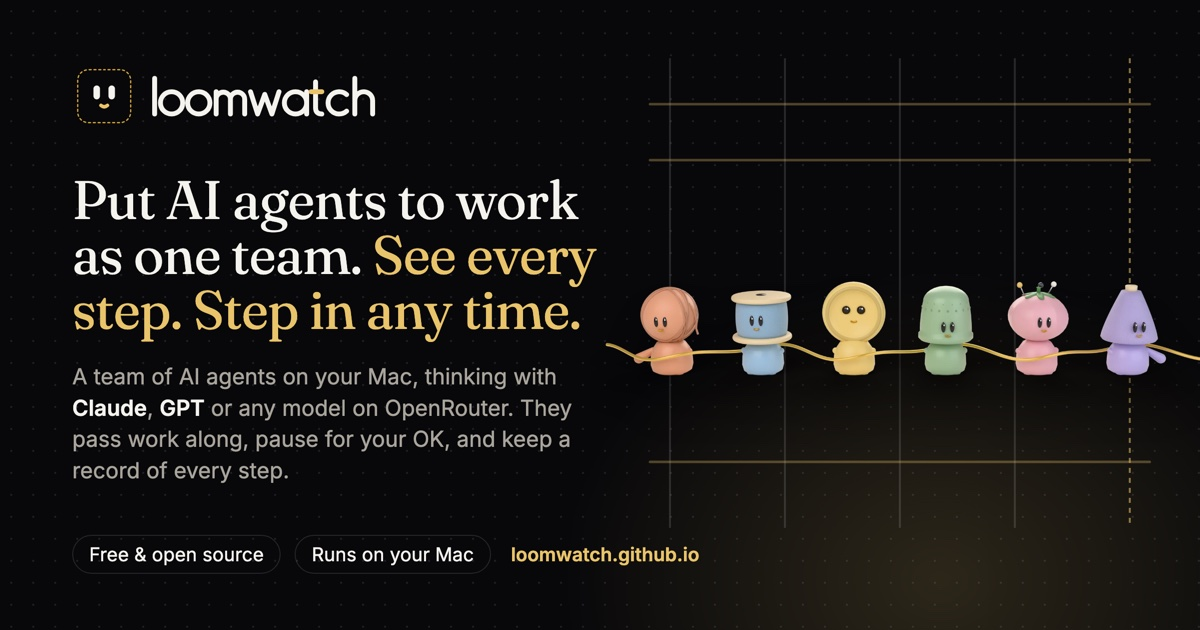
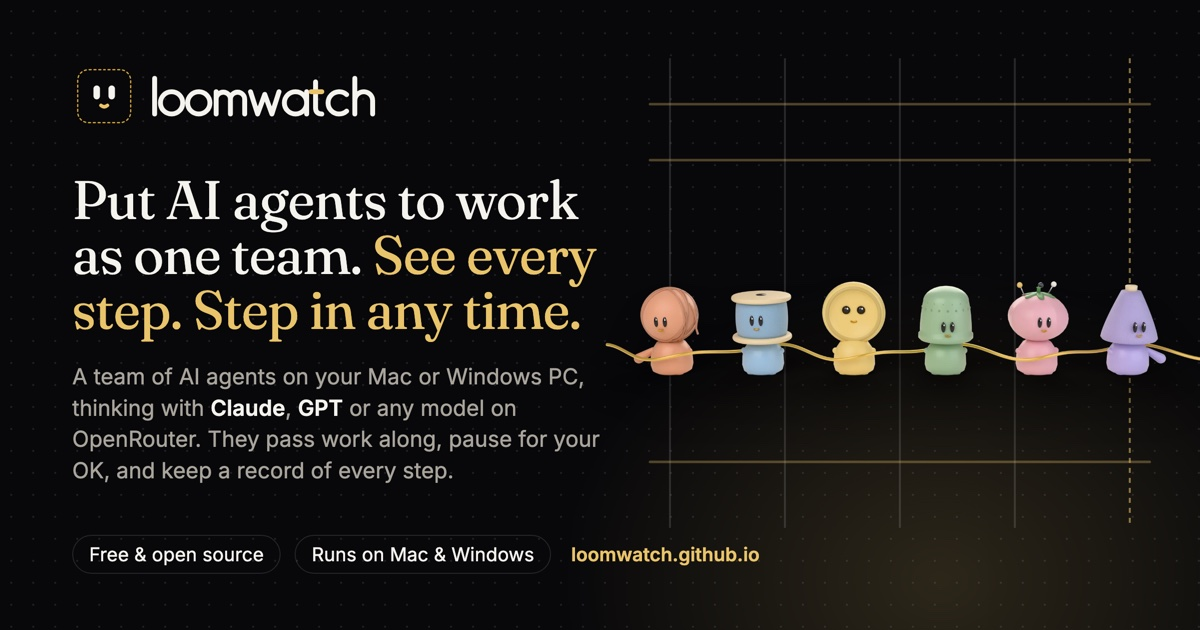
feat(site): the page offers the Windows download too, and shows your computer's first (#109)
* fix(site): search results and link previews say it runs on Windows too

The page description, Open Graph and Twitter descriptions still called
LoomWatch a Mac app. Since 0.6.0 it also runs on Windows, so they now say
"Mac and Windows" / "your Mac or Windows PC", matching the GitHub About.

* feat(site): the page offers the Windows download too, and shows your computer's first

- Hero: "runs on Mac and Windows", and "a team of AI agents on your Mac or Windows PC".
- Start: a Mac / Windows switch on the download card. Each has its own download, the note on
  what to click when the system blocks the first open (Gatekeeper, SmartScreen), and its
  one-line install (Terminal, PowerShell) with a Copy button. main.js picks the visitor's
  computer from the browser (Windows when it says so, the Mac otherwise); without JavaScript
  both show, the Mac first. Windows logo added beside the Apple and Linux ones.
- Link preview card: "on your Mac or Windows PC" and a "Runs on Mac & Windows" pill,
  re-rendered as its header says (166 KB), and ?v=9 on og:image and twitter:image.

---------

Changed region(s): [[0.0617, 0.573, 0.4933, 0.7841], [0.3083, 0.8444, 0.6475, 0.9048]]

diff --git a/site/index.html b/site/index.html
@@ -4,21 +4,21 @@
   <meta charset="utf-8">
   <meta name="viewport" content="width=device-width, initial-scale=1">
   <title>LoomWatch — Put AI agents to work as one team</title>
-  <meta name="description" content="A free, open-source Mac app that puts AI agents to work as one team, thinking with Claude, GPT, Gemini or any model on OpenRouter. See every step, and step in any time. No code needed.">
+  <meta name="description" content="A free, open-source app for Mac and Windows that puts AI agents to work as one team, thinking with Claude, GPT, Gemini or any model on OpenRouter. See every step, and step in any time. No code needed.">
   <meta name="theme-color" content="#08080A">
   <meta property="og:site_name" content="LoomWatch">
   <meta property="og:title" content="LoomWatch — Put AI agents to work as one team">
-  <meta property="og:description" content="Put AI agents to work as one team on your Mac, thinking with Claude, GPT, Gemini or any model on OpenRouter. See every step, and step in any time. Free and open source.">
+  <meta property="og:description" content="Put AI agents to work as one team on your Mac or Windows PC, thinking with Claude, GPT, Gemini or any model on OpenRouter. See every step, and step in any time. Free and open source.">
   <meta property="og:type" content="website">
   <meta property="og:url" content="https://loomwatch.github.io/">
-  <meta property="og:image" content="https://loomwatch.github.io/social-card.jpg?v=8">
+  <meta property="og:image" content="https://loomwatch.github.io/social-card.jpg?v=9">
   <meta property="og:image:width" content="1200">
   <meta property="og:image:height" content="630">
   <meta property="og:image:alt" content="LoomWatch: put AI agents to work as one team. Six friendly figures, a yarn ball, a spool, a button, a thimble, a pincushion and a thread cone, joined by one gold thread.">
   <meta name="twitter:card" content="summary_large_image">
   <meta name="twitter:title" content="LoomWatch — Put AI agents to work as one team">
-  <meta name="twitter:description" content="Put AI agents to work as one team on your Mac, thinking with Claude, GPT, Gemini or any model on OpenRouter. See every step, and step in any time. Free and open source.">
-  <meta name="twitter:image" content="https://loomwatch.github.io/social-card.jpg?v=8">
+  <meta name="twitter:description" content="Put AI agents to work as one team on your Mac or Windows PC, thinking with Claude, GPT, Gemini or any model on OpenRouter. See every step, and step in any time. Free and open source.">
+  <meta name="twitter:image" content="https://loomwatch.github.io/social-card.jpg?v=9">
   <meta name="twitter:image:alt" content="LoomWatch: put AI agents to work as one team. Six friendly figures, a yarn ball, a spool, a button, a thimble, a pincushion and a thread cone, joined by one gold thread.">
   <link rel="canonical" href="https://loomwatch.github.io/">
   <!-- Search results may show the link-preview picture full size. -->
@@ -126,9 +126,9 @@
 <!-- ================= Hero: the crew, alive ================= -->
 <section class="hero" id="top" aria-labelledby="hero-h">
   <div class="hero-copy">
-    <span class="micro">Free and open source · runs on your Mac · no code needed</span>
+    <span class="micro">Free and open source · runs on Mac and Windows · no code needed</span>
     <h1 id="hero-h">Put AI agents to work as one team. <em>See&nbsp;every&nbsp;step. Step&nbsp;in&nbsp;any&nbsp;time.</em></h1>
-    <p class="hero-sub">A team of AI agents on your Mac, each thinking with the model you pick: Claude, GPT, Gemini or a free one, all through one OpenRouter key. They pass work to each other, pause for your OK wherever you choose, and keep a record of every step.</p>
+    <p class="hero-sub">A team of AI agents on your Mac or Windows PC, each thinking with the model you pick: Claude, GPT, Gemini or a free one, all through one OpenRouter key. They pass work to each other, pause for your OK wherever you choose, and keep a record of every step.</p>
     <div class="cta">
       <a class="btn btn-primary btn-lg" href="#act-agents">Build an agent, right here</a>
       <a class="link" href="#start">Or install it ↓</a>
@@ -408,6 +408,7 @@
     <svg width="0" height="0" style="position:absolute" aria-hidden="true">
       <symbol id="os-apple" viewBox="0 0 24 24"><path d="M12.152 6.896c-.948 0-2.415-1.078-3.96-1.04-2.04.027-3.91 1.183-4.961 3.014-2.117 3.675-.546 9.103 1.519 12.09 1.013 1.454 2.208 3.09 3.792 3.039 1.52-.065 2.09-.987 3.935-.987 1.831 0 2.35.987 3.96.948 1.637-.026 2.676-1.48 3.676-2.948 1.156-1.688 1.636-3.325 1.662-3.415-.039-.013-3.182-1.221-3.22-4.857-.026-3.04 2.48-4.494 2.597-4.559-1.429-2.09-3.623-2.324-4.39-2.376-2-.156-3.675 1.09-4.61 1.09zM15.53 3.83c.843-1.012 1.4-2.427 1.245-3.83-1.207.052-2.662.805-3.532 1.818-.78.896-1.454 2.338-1.273 3.714 1.338.104 2.715-.688 3.559-1.701"/></symbol>
       <symbol id="os-linux" viewBox="0 0 24 24"><path d="M12.504 0c-.155 0-.315.008-.48.021-4.226.333-3.105 4.807-3.17 6.298-.076 1.092-.3 1.953-1.05 3.02-.885 1.051-2.127 2.75-2.716 4.521-.278.832-.41 1.684-.287 2.489a.424.424 0 00-.11.135c-.26.268-.45.6-.663.839-.199.199-.485.267-.797.4-.313.136-.658.269-.864.68-.09.189-.136.394-.132.602 0 .199.027.4.055.536.058.399.116.728.04.97-.249.68-.28 1.145-.106 1.484.174.334.535.47.94.601.81.2 1.91.135 2.774.6.926.466 1.866.67 2.616.47.526-.116.97-.464 1.208-.946.587-.003 1.23-.269 2.26-.334.699-.058 1.574.267 2.577.2.025.134.063.198.114.333l.003.003c.391.778 1.113 1.132 1.884 1.071.771-.06 1.592-.536 2.257-1.306.631-.765 1.683-1.084 2.378-1.503.348-.199.629-.469.649-.853.023-.4-.2-.811-.714-1.376v-.097l-.003-.003c-.17-.2-.25-.535-.338-.926-.085-.401-.182-.786-.492-1.046h-.003c-.059-.054-.123-.067-.188-.135a.357.357 0 00-.19-.064c.431-1.278.264-2.55-.173-3.694-.533-1.41-1.465-2.638-2.175-3.483-.796-1.005-1.576-1.957-1.56-3.368.026-2.152.236-6.133-3.544-6.139zm.529 3.405h.013c.213 0 .396.062.584.198.19.135.33.332.438.533.105.259.158.459.166.724 0-.02.006-.04.006-.06v.105a.086.086 0 01-.004-.021l-.004-.024a1.807 1.807 0 01-.15.706.953.953 0 01-.213.335.71.71 0 00-.088-.042c-.104-.045-.198-.064-.284-.133a1.312 1.312 0 00-.22-.066c.05-.06.146-.133.183-.198.053-.128.082-.264.088-.402v-.02a1.21 1.21 0 00-.061-.4c-.045-.134-.101-.2-.183-.333-.084-.066-.167-.132-.267-.132h-.016c-.093 0-.176.03-.262.132a.8.8 0 00-.205.334 1.18 1.18 0 00-.09.4v.019c.002.089.008.179.02.267-.193-.067-.438-.135-.607-.202a1.635 1.635 0 01-.018-.2v-.02a1.772 1.772 0 01.15-.768c.082-.22.232-.406.43-.533a.985.985 0 01.594-.2zm-2.962.059h.036c.142 0 .27.048.399.135.146.129.264.288.344.465.09.199.14.4.153.667v.004c.007.134.006.2-.002.266v.08c-.03.007-.056.018-.083.024-.152.055-.274.135-.393.2.012-.09.013-.18.003-.267v-.015c-.012-.133-.04-.2-.082-.333a.613.613 0 00-.166-.267.248.248 0 00-.183-.064h-.021c-.071.006-.13.04-.186.132a.552.552 0 00-.12.27.944.944 0 00-.023.33v.015c.012.135.037.2.08.334.046.134.098.2.166.268.01.009.02.018.034.024-.07.057-.117.07-.176.136a.304.304 0 01-.131.068 2.62 2.62 0 01-.275-.402 1.772 1.772 0 01-.155-.667 1.759 1.759 0 01.08-.668 1.43 1.43 0 01.283-.535c.128-.133.26-.2.418-.2zm1.37 1.706c.332 0 .733.065 1.216.399.293.2.523.269 1.052.468h.003c.255.136.405.266.478.399v-.131a.571.571 0 01.016.47c-.123.31-.516.643-1.063.842v.002c-.268.135-.501.333-.775.465-.276.135-.588.292-1.012.267a1.139 1.139 0 01-.448-.067 3.566 3.566 0 01-.322-.198c-.195-.135-.363-.332-.612-.465v-.005h-.005c-.4-.246-.616-.512-.686-.71-.07-.268-.005-.47.193-.6.224-.135.38-.271.483-.336.104-.074.143-.102.176-.131h.002v-.003c.169-.202.436-.47.839-.601.139-.036.294-.065.466-.065zm2.8 2.142c.358 1.417 1.196 3.475 1.735 4.473.286.534.855 1.659 1.102 3.024.156-.005.33.018.513.064.646-1.671-.546-3.467-1.089-3.966-.22-.2-.232-.335-.123-.335.59.534 1.365 1.572 1.646 2.757.13.535.16 1.104.021 1.67.067.028.135.06.205.067 1.032.534 1.413.938 1.23 1.537v-.043c-.06-.003-.12 0-.18 0h-.016c.151-.467-.182-.825-1.065-1.224-.915-.4-1.646-.336-1.77.465-.008.043-.013.066-.018.135-.068.023-.139.053-.209.064-.43.268-.662.669-.793 1.187-.13.533-.17 1.156-.205 1.869v.003c-.02.334-.17.838-.319 1.35-1.5 1.072-3.58 1.538-5.348.334a2.645 2.645 0 00-.402-.533 1.45 1.45 0 00-.275-.333c.182 0 .338-.03.465-.067a.615.615 0 00.314-.334c.108-.267 0-.697-.345-1.163-.345-.467-.931-.995-1.788-1.521-.63-.4-.986-.87-1.15-1.396-.165-.534-.143-1.085-.015-1.645.245-1.07.873-2.11 1.274-2.763.107-.065.037.135-.408.974-.396.751-1.14 2.497-.122 3.854a8.123 8.123 0 01.647-2.876c.564-1.278 1.743-3.504 1.836-5.268.048.036.217.135.289.202.218.133.38.333.59.465.21.201.477.335.876.335.039.003.075.006.11.006.412 0 .73-.134.997-.268.29-.134.52-.334.74-.4h.005c.467-.135.835-.402 1.044-.7zm2.185 8.958c.037.6.343 1.245.882 1.377.588.134 1.434-.333 1.791-.765l.211-.01c.315-.007.577.01.847.268l.003.003c.208.199.305.53.391.876.085.4.154.78.409 1.066.486.527.645.906.636 1.14l.003-.007v.018l-.003-.012c-.015.262-.185.396-.498.595-.63.401-1.746.712-2.457 1.57-.618.737-1.37 1.14-2.036 1.191-.664.053-1.237-.2-1.574-.898l-.005-.003c-.21-.4-.12-1.025.056-1.69.176-.668.428-1.344.463-1.897.037-.714.076-1.335.195-1.814.12-.465.308-.797.641-.984l.045-.022zm-10.814.049h.01c.053 0 .105.005.157.014.376.055.706.333 1.023.752l.91 1.664.003.003c.243.533.754 1.064 1.189 1.637.434.598.77 1.131.729 1.57v.006c-.057.744-.48 1.148-1.125 1.294-.645.135-1.52.002-2.395-.464-.968-.536-2.118-.469-2.857-.602-.369-.066-.61-.2-.723-.4-.11-.2-.113-.602.123-1.23v-.004l.002-.003c.117-.334.03-.752-.027-1.118-.055-.401-.083-.71.043-.94.16-.334.396-.4.69-.533.294-.135.64-.202.915-.47h.002v-.002c.256-.268.445-.601.668-.838.19-.201.38-.336.663-.336zm7.159-9.074c-.435.201-.945.535-1.488.535-.542 0-.97-.267-1.28-.466-.154-.134-.28-.268-.373-.335-.164-.134-.144-.333-.074-.333.109.016.129.134.199.2.096.066.215.2.36.333.292.2.68.467 1.167.467.485 0 1.053-.267 1.398-.466.195-.135.445-.334.648-.467.156-.136.149-.267.279-.267.128.016.034.134-.147.332a8.097 8.097 0 01-.69.468zm-1.082-1.583V5.64c-.006-.02.013-.042.029-.05.074-.043.18-.027.26.004.063 0 .16.067.15.135-.006.049-.085.066-.135.066-.055 0-.092-.043-.141-.068-.052-.018-.146-.008-.163-.065zm-.551 0c-.02.058-.113.049-.166.066-.047.025-.086.068-.14.068-.05 0-.13-.02-.136-.068-.01-.066.088-.133.15-.133.08-.031.184-.047.259-.005.019.009.036.03.03.05v.02h.003z"/></symbol>
+      <symbol id="os-windows" viewBox="0 0 24 24"><path d="M2 2h9.5v9.5H2zM12.5 2H22v9.5h-9.5zM2 12.5h9.5V22H2zM12.5 12.5H22V22h-9.5z"/></symbol>
     </svg>
     <div class="start-grid">
       <div class="band-head">
@@ -415,20 +416,43 @@
         <h2 id="start-h">One download, and your first team is already waiting.</h2>
         <p class="ch-body">It opens with a demo team that works offline, no key needed. When you want real runs, paste an OpenRouter key on Home and pick a ready-made team.</p>
       </div>
-      <div class="get">
-        <div class="get-mac">
-          <a class="btn btn-primary btn-lg" href="https://github.com/tnghia903/loomwatch/releases/latest/download/LoomWatch-macos.dmg"><svg class="os-logo" aria-hidden="true"><use href="#os-apple"/></svg>Download for Mac</a>
-          <span class="start-meta">macOS 11+</span>
+      <!-- Without JavaScript both computers show, the Mac first. main.js shows only the visitor's,
+           with the other one click away on the switch. -->
+      <div class="get" id="get">
+        <div class="dial get-pick" role="radiogroup" aria-label="Your computer">
+          <button type="button" role="radio" data-os="mac"><svg class="os-logo" aria-hidden="true"><use href="#os-apple"/></svg>Mac</button>
+          <button type="button" role="radio" data-os="windows"><svg class="os-logo" aria-hidden="true"><use href="#os-windows"/></svg>Windows</button>
         </div>
-        <p class="start-note">If macOS blocks the first open, click <b>Done</b>, then <b>Open Anyway</b> in System Settings › Privacy &amp; Security.</p>
-        <div class="get-term">
-          <div class="get-term-head">
-            <span class="micro">Or in Terminal</span>
-            <span class="os" role="img" aria-label="macOS or Linux (untested)" title="macOS or Linux (untested)"><svg class="os-logo"><use href="#os-apple"/></svg><svg class="os-logo"><use href="#os-linux"/></svg></span>
-            <button class="btn" type="button" id="copy-cmds">Copy</button>
+        <div class="get-os" data-os="mac">
+          <div class="get-dl">
+            <a class="btn btn-primary btn-lg" href="https://github.com/tnghia903/loomwatch/releases/latest/download/LoomWatch-macos.dmg"><svg class="os-logo" aria-hidden="true"><use href="#os-apple"/></svg>Download for Mac</a>
+            <span class="start-meta">macOS 11+</span>
           </div>
-          <code class="cmdline" id="cmds"><span class="p">$ </span><span class="cmd">curl -fsSL https://loomwatch.github.io/install.sh | bash</span></code>
-          <p class="start-alt"><a href="https://github.com/tnghia903/loomwatch/blob/main/scripts/install.sh">Read the script</a> · <a href="https://github.com/tnghia903/loomwatch#build-from-source">Build from source</a></p>
+          <p class="start-note">If macOS blocks the first open, click <b>Done</b>, then <b>Open Anyway</b> in System Settings › Privacy &amp; Security.</p>
+          <div class="get-term">
+            <div class="get-term-head">
+              <span class="micro">Or in Terminal</span>
+              <span class="os" role="img" aria-label="macOS or Linux (untested)" title="macOS or Linux (untested)"><svg class="os-logo"><use href="#os-apple"/></svg><svg class="os-logo"><use href="#os-linux"/></svg></span>
+              <button class="btn" type="button" data-copy>Copy</button>
+            </div>
+            <code class="cmdline"><span class="p">$ </span><span class="cmd">curl -fsSL https://loomwatch.github.io/install.sh | bash</span></code>
+            <p class="start-alt"><a href="https://github.com/tnghia903/loomwatch/blob/main/scripts/install.sh">Read the script</a> · <a href="https://github.com/tnghia903/loomwatch#build-from-source">Build from source</a></p>
+          </div>
+        </div>
+        <div class="get-os" data-os="windows">
+          <div class="get-dl">
+            <a class="btn btn-primary btn-lg" href="https://github.com/tnghia903/loomwatch/releases/latest/download/LoomWatch-windows-setup.exe"><svg class="os-logo" aria-hidden="true"><use href="#os-windows"/></svg>Download for Windows</a>
+            <span class="start-meta">Windows 10 or 11, 64-bit</span>
+          </div>
+          <p class="start-note">If Windows says it protected your PC, click <b>More info</b>, then <b>Run anyway</b>.</p>
+          <div class="get-term">
+            <div class="get-term-head">
+              <span class="micro">Or in PowerShell</span>
+              <button class="btn" type="button" data-copy>Copy</button>
+            </div>
+            <code class="cmdline"><span class="p">PS&gt; </span><span class="cmd">irm https://loomwatch.github.io/install.ps1 | iex</span></code>
+            <p class="start-alt"><a href="https://github.com/tnghia903/loomwatch/blob/main/scripts/install.ps1">Read the script</a> · <a href="https://github.com/tnghia903/loomwatch#build-from-source">Build from source</a></p>
+          </div>
         </div>
       </div>
     </div>

diff --git a/site/main.js b/site/main.js
@@ -2662,13 +2662,29 @@
 
   /* ================================================================ 09 · Start */
 
-  const cmds = $('#cmds')
-  $('#copy-cmds').addEventListener('click', async (event) => {
+  // The download for the visitor's computer: Windows when the browser says it runs on Windows, the
+  // Mac otherwise (a phone too, as before). The other one is a click away on the switch.
+  const get = $('#get')
+  const osButtons = $$('.get-pick [data-os]')
+  function setOs(os) {
+    get.dataset.os = os
+    osButtons.forEach((b) => b.setAttribute('aria-checked', String(b.dataset.os === os)))
+  }
+  osButtons.forEach((b) => b.addEventListener('click', () => setOs(b.dataset.os)))
+  $('.get-pick').addEventListener('keydown', (event) => {
+    if (!['ArrowLeft', 'ArrowRight'].includes(event.key)) return
+    const at = osButtons.findIndex((b) => b.dataset.os === get.dataset.os)
+    const next = osButtons[(at + (event.key === 'ArrowRight' ? 1 : osButtons.length - 1)) % osButtons.length]
+    setOs(next.dataset.os); next.focus(); event.preventDefault()
+  })
+  setOs(/\bwin/i.test(navigator.userAgentData?.platform || navigator.userAgent) ? 'windows' : 'mac')
+
+  $$('.get-term').forEach((term) => $('[data-copy]', term).addEventListener('click', async (event) => {
     const button = event.currentTarget
-    const text = $$('.cmd', cmds).map((c) => c.textContent).join('\n')
+    const text = $$('.cmd', term).map((c) => c.textContent).join('\n')
     try { await navigator.clipboard.writeText(text); button.textContent = 'Copied' } catch { button.textContent = 'Select and copy' }
     window.setTimeout(() => { button.textContent = 'Copy' }, 1600)
-  })
+  }))
 
   const SCREENS = {
     home: { w: 2880, h: 1600, alt: 'LoomWatch Home: the headline Put AI agents to work as a team, a gold Build an agent button beside New team, a box to describe the job in plain words, the three steps Agents, Workflow and Chat, a row of your saved agents each with its little figure and version, and your teams as cards below.', cap: 'Home: start with an agent, then a team. Your agents sit in a row, each with its figure and its version.' },

diff --git a/site/styles.css b/site/styles.css
@@ -569,9 +569,18 @@ em { font-style: italic; }
 .start-grid { display: grid; grid-template-columns: minmax(0, 1fr) minmax(0, 560px); gap: 56px; align-items: center; }
 /* The download, in a card of its own: the button first, the Terminal line under it for those who want it. */
 .get { max-width: 560px; padding: 28px; border: 1px solid var(--hairline-2); border-radius: 14px; background: var(--panel-solid); box-shadow: var(--shadow); }
-.get-mac { display: flex; align-items: center; gap: 14px; flex-wrap: wrap; }
+/* Mac or Windows. Without JavaScript both show, one under the other, and the switch stays hidden;
+   main.js sets data-os on the card to show the visitor's computer and the switch to change it. */
+.get-pick { display: none; margin-bottom: 22px; }
+.get[data-os] .get-pick { display: inline-flex; }
+.get-pick button { display: inline-flex; align-items: center; gap: 7px; }
+.get-pick .os-logo { width: 13px; height: 13px; margin-top: -1px; }
+.get-os + .get-os { margin-top: 28px; padding-top: 28px; border-top: 1px solid var(--hairline-2); }
+.get[data-os] .get-os + .get-os { margin-top: 0; padding-top: 0; border-top: 0; }
+.get[data-os="mac"] .get-os[data-os="windows"], .get[data-os="windows"] .get-os[data-os="mac"] { display: none; }
+.get-dl { display: flex; align-items: center; gap: 14px; flex-wrap: wrap; }
 .os-logo { width: 15px; height: 15px; fill: currentColor; flex: none; }
-.get-mac .os-logo { width: 17px; height: 17px; margin: -2px 2px 0 -4px; }
+.get-dl .os-logo { width: 17px; height: 17px; margin: -2px 2px 0 -4px; }
 .start-meta { font-size: 13px; color: var(--ink-3); }
 .start-note { margin: 14px 0 0; font-size: 13.5px; line-height: 1.6; color: var(--ink-2); }
 .start-note b { font-weight: 600; color: var(--ink); }

diff --git a/site/social-card.html b/site/social-card.html
@@ -84,12 +84,12 @@
       </svg>
     </div>
     <h1>Put AI agents to work as one team. <em>See every step. Step in any time.</em></h1>
-    <p class="lede">A team of AI agents on your Mac, thinking with <b>Claude</b>, <b>GPT</b> or any model
-      on OpenRouter. They pass work along, pause for your OK, and keep a record of every step.</p>
+    <p class="lede">A team of AI agents on your Mac or Windows PC, thinking with <b>Claude</b>, <b>GPT</b>
+      or any model on OpenRouter. They pass work along, pause for your OK, and keep a record of every step.</p>
   </div>
   <div class="foot">
     <span class="pill">Free &amp; open source</span>
-    <span class="pill">Runs on your Mac</span>
+    <span class="pill">Runs on Mac &amp; Windows</span>
     <span class="url">loomwatch.github.io</span>
   </div>
   <svg class="loom" viewBox="0 0 520 470" aria-hidden="true">
